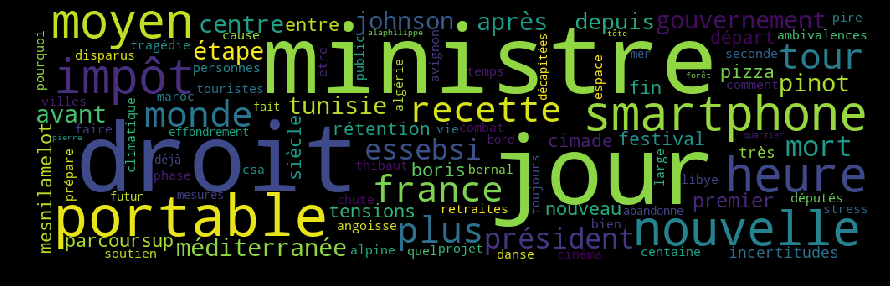
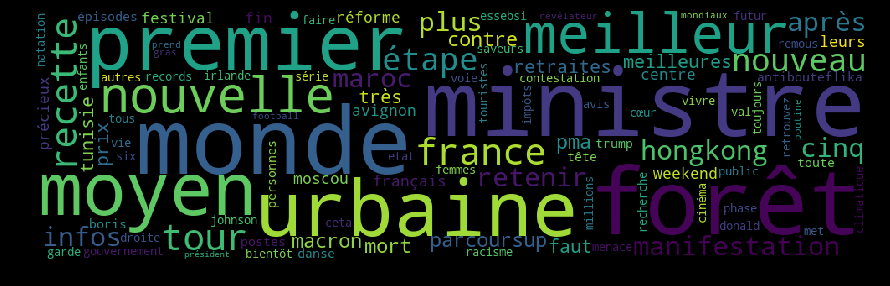
New scrape of this day, it works fine

diff --git a/wordcloud.py b/wordcloud.py
@@ -23,8 +23,9 @@ soup = BeautifulSoup(r.text, 'html.parser')
 results = soup.find_all('span', attrs={'class':'article__title-label'})
 titre = [results[i].text for i in range(len(results))]
 
+other_words = ['entre', 'depuis', 'avant', 'avant', 'quel', 'fait', 'déjà']
 #French STOP WORDS and Ponctuations
-pat = r'\b(?:{})\b'.format('|'.join(stopwords))
+pat = r'\b(?:{})\b'.format('|'.join(stopwords+other_words))
 p = r'[^\w\s]+'
 
 #Create a DataFrame

diff --git a/README.md b/README.md
@@ -1,5 +1,5 @@
 ## News-Scraping-Textmining-WordCloud
 
-In this project, I scrape French news website and plot the most used words. 26 july 2019
+In this project, I scrape French news website and plot the most used words. 28 july 2019
 
 ![alt text](https://raw.githubusercontent.com/mrNicky/News-Scraping-Textmining-WordCloud/master/wordcloud.png)
